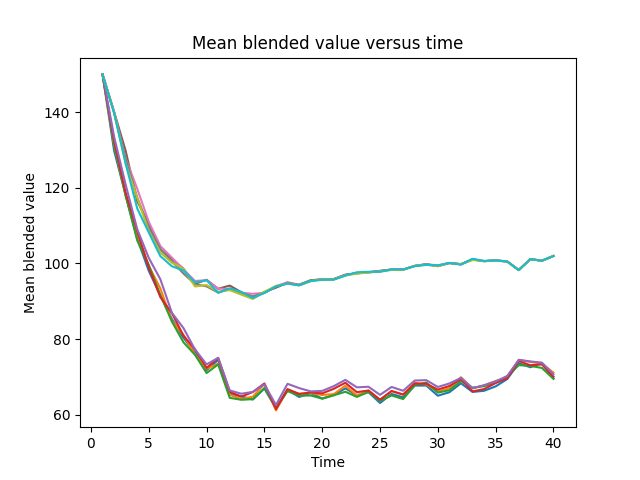
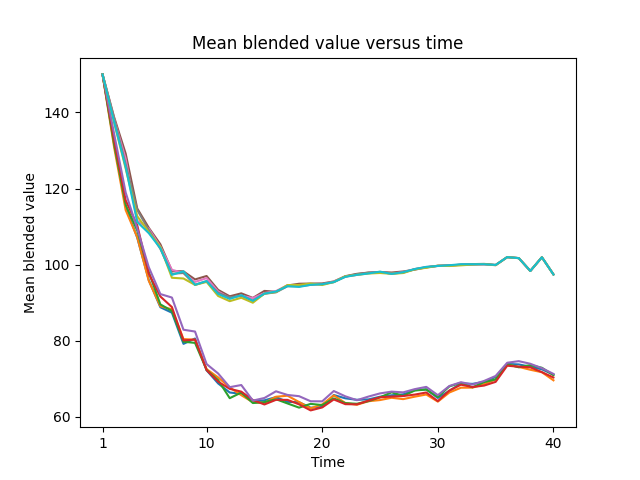
add df_plot

diff --git a/pyibl.py b/pyibl.py
@@ -9,7 +9,7 @@ facilities for inspecting details of the IBL decision making process programmati
 facilitating debugging, logging and fine grained control of complex models.
 """
 
-__version__ = "5.2.1dev1"
+__version__ = "5.2.1"
 
 PYACTUP_MINIMUM_VERSION = "2.2.3"
 
@@ -1273,141 +1273,12 @@ class Agent:
         .. image:: _static/bv_plot.png
 
         """
-        if min and not isinstance(min, numbers.Real):
-            raise ValueError(f"The min value, {min}, is neither a Real number nor None")
-        if max and not isinstance(max, numbers.Real):
-            raise ValueError(f"The max value, {max}, is neither a Real number nor None")
-        if show is None:
-            show = filename is None
         if self._aggregate_details is None:
             raise RuntimeError("Can't make plot unless aggregate_details is set")
-        if details is None:
-            agg = self.aggregate_details
-        else:
-            if not (isnstance(details, pd.DataFrame) and
-                    list(details.columns) == list(self._aggregate_details_columns())):
-                raise ValueError("The details argument is not a DataFrame with the same columns as this Agent's aggregate_details")
-            agg = details
-        plot_kind = {"choice":      ChoicePlot("choice", "Fraction making choice", True),
-                     "bv":          OptionPlot("blended_value", "Mean blended value"),
-                     "probability": RetrievalProbabilyPlot("retrieval_probability",
-                                                           "Mean probability of retrieval", True),
-                     "activation":  InstancePlot("activation", "Mean total activation"),
-                     "baselevel":   InstancePlot("base_level_activation", "Mean base level activation"),
-                     "mismatch":    InstancePlot("mismatch", "Mean total mismatch penalty")
-                     }.get(kind)
-        if not plot_kind:
-            if isinstance(kind, str) and kind.endswith(".similarity"):
-                if kind in agg:
-                    plot_kind = InstancePlot(kind, f"Mean similarities of {kind[0:-11]}",  True)
-                else:
-                    raise ValueError(f"The {kind[0:-11]} attribute is either absent or not partially matched")
-            else:
-                raise ValueError(f"Unknown plot kind {kind}")
-        if kind == "mismatch" and "mismatch" not in agg:
-            raise ValueError("Can't generate a mismatch plot when no attributes were partially matched")
-        if xlabel is None:
-            xlabel = "Time"
-        if ylabel is None:
-            ylabel = plot_kind._description
-        data = plot_kind.get_data(agg, include, exclude, min, max, earliest, latest)
-        colors_and_styles = Agent._plot_ordering(agg, data)
-        plt.clf()
-        mint = None
-        maxt = None
-        for k in (colors_and_styles or data.keys()):
-            t, v = data[k]
-        # for k, (t, v) in data.items():
-            if mint is None or t[0] < mint:
-                mint = t[0]
-            if maxt is None or t[-1] > maxt:
-                maxt = t[-1]
-            if colors_and_styles:
-                c, s = colors_and_styles[k]
-                plt.plot(t, v, label=str(k), color=c, ls=s)
-            else:
-                plt.plot(t, v, label=str(k))
-        if mint is not None and maxt is not None:
-            t = list(range(mint, maxt + 1))
-        if title is not False:
-            plt.title(title or f"{plot_kind._description} versus {xlabel.lower()}")
-        if legend is None:
-            legend = data and (len(data) <= LEGEND_LIMIT)
-        if legend is True:
-            plt.legend()
-        elif legend:
-            plt.legend(legend)
-        plt.xlabel(xlabel)
-        if mint is not None and maxt is not None:
-            plt.xticks(Agent._xticks(t))
-        plt.ylabel(ylabel)
-        plt.yticks(plot_kind.yticks())
-        if limits:
-            plt.ylim(limits)
-        elif plot_kind._default_ylim:
-            plt.ylim(plot_kind._default_ylim)
-        if filename:
-            plt.savefig(filename)
-        if show:
-            plt.show()
-        return plt.gcf()
-
-    @staticmethod
-    def _plot_ordering(df, data):
-        options = sorted(df["option"].unique())
-        if len(options) > len(PLOT_COLORS):
-            return None
-        utilities = sorted([n for n in df["utility"].unique()], reverse=True)
-        if all(math.isclose(u, round(u)) for u in utilities):
-            utilities = [int(u) for u in utilities]
-        result = {}
-        for o, c in zip(options, PLOT_COLORS):
-            if o in data:
-                result[o] = (c, PLOT_LINE_STYLES[0])
-            else:
-                line_styles = list(PLOT_LINE_STYLES)
-                for u in utilities:
-                    if (s := f"{o}, {u}") in data:
-                        if not line_styles:
-                            return None
-                        result[s] = (c, line_styles.pop(0))
-        return result
-
-    @staticmethod
-    def _xticks(times):
-        def f(x):
-            t0 = times[0]
-            result = [t0]
-            tx = math.ceil(t0 / x) * x
-            if tx - t0 < 7:
-                tx += x
-            tend = times[-1]
-            result += list(range(tx, tend + 1, x))
-            if tend - result[-1] >= 7:
-                result += [tend]
-            else:
-                result[-1] = tend
-            return result
-        try:
-            if (n := len(times)) <= 6:
-                return times
-            elif n <= 15:
-                return [times[i] for i in range(0, n, 2)]
-            elif n <= 80:
-                return f(10)
-            elif n < 160:
-                return f(20)
-            elif n <= 240:
-                return f(30)
-            elif n <= 310:
-                return f(40)
-            elif n <= 400:
-                return f(50)
-            else:
-                return None
-        except Error:
-            # shouldn't be possible, but just in case...
-            return None
+        return df_plot(self.aggregate_details, kind=kind, title=title,
+                       xlabel=xlabel, ylabel=ylabel, include=include, exclude=exclude,
+                       min=min, max=max, earliest=earliest, latest=latest,
+                       legend=legend, limits=limits, filename=filename, show=show)
 
     def similarity(self, attributes=None, function=None, weight=None):
         """Assigns a function and/or corresponding weight to be used when computing the similarity of attribute values.
@@ -1481,6 +1352,157 @@ class Agent:
             self._memory.index = self._preferred_index()
         except RuntimeError:
             pass
+
+
+def df_plot(df, kind, title=None, xlabel=None, ylabel=None,
+            include=None, exclude=None, min=None, max=None, earliest=None, latest=None,
+            legend=None, limits=None, filename=None, show=None):
+    """This is similar to the :meth:`Agent.plot` method.
+    The first argument should be a Pandas DataFrame, congruent to one such as might be
+    produced by :attr:`Agent.aggrregate_details`. The plots produced are the same as would
+    have been produced by an :class:`Agent` with those aggregate details, with the rest of
+    the arguments being the same as for :meth:`Agent.plot`.
+
+    This function can sometimes be useful in specialized circumstances, such as
+    combining the results from multiple simulations using isomorphic Agents.
+
+    A :exc:`ValueError` is raised if *df* is not a DataFrame, or its columns are
+    such as might be in one produced by :attr:`Agent.aggrregate_details`. A variety
+    of other errors may be raised if values in *df* are not of the types or ranges
+    that might be expected in an :class:`Agent`'s results.
+    """
+    if not isinstance(df, pd.DataFrame):
+        raise ValueError(f"First argument to df_plot must be a DataFrame, not {df}")
+    for c in df.columns:
+        if not (c in AGGREGATE_COLUMNS + ("mismatch",) or c.endswith(".similarity")):
+            raise ValueError(f"DataFrame column {c} cannot be plotted")
+    for c in AGGREGATE_COLUMNS:
+        if c not in df.columns:
+            raise ValueError(f"The DataFrame does not contain columns {c} and cannot be plotted")
+    if min and not isinstance(min, numbers.Real):
+        raise ValueError(f"The min value, {min}, is neither a Real number nor None")
+    if max and not isinstance(max, numbers.Real):
+        raise ValueError(f"The max value, {max}, is neither a Real number nor None")
+    if show is None:
+        show = filename is None
+    plot_kind = {"choice":      ChoicePlot("choice", "Fraction making choice", True),
+                 "bv":          OptionPlot("blended_value", "Mean blended value"),
+                 "probability": RetrievalProbabilyPlot("retrieval_probability",
+                                                       "Mean probability of retrieval", True),
+                 "activation":  InstancePlot("activation", "Mean total activation"),
+                 "baselevel":   InstancePlot("base_level_activation", "Mean base level activation"),
+                 "mismatch":    InstancePlot("mismatch", "Mean total mismatch penalty")
+                 }.get(kind)
+    if not plot_kind:
+        if isinstance(kind, str) and kind.endswith(".similarity"):
+            if kind in df:
+                plot_kind = InstancePlot(kind, f"Mean similarities of {kind[0:-11]}",  True)
+            else:
+                raise ValueError(f"The {kind[0:-11]} attribute is either absent or not partially matched")
+        else:
+            raise ValueError(f"Unknown plot kind {kind}")
+    if kind == "mismatch" and "mismatch" not in df:
+        raise ValueError("Can't generate a mismatch plot when no attributes were partially matched")
+    if xlabel is None:
+        xlabel = "Time"
+    if ylabel is None:
+        ylabel = plot_kind._description
+    data = plot_kind.get_data(df, include, exclude, min, max, earliest, latest)
+    colors_and_styles = _plot_ordering(df, data)
+    plt.clf()
+    mint = None
+    maxt = None
+    for k in (colors_and_styles or data.keys()):
+        t, v = data[k]
+        if mint is None or t[0] < mint:
+            mint = t[0]
+        if maxt is None or t[-1] > maxt:
+            maxt = t[-1]
+        if colors_and_styles:
+            c, s = colors_and_styles[k]
+            plt.plot(t, v, label=str(k), color=c, ls=s)
+        else:
+            plt.plot(t, v, label=str(k))
+    if mint is not None and maxt is not None:
+        t = list(range(mint, maxt + 1))
+    if title is not False:
+        plt.title(title or f"{plot_kind._description} versus {xlabel.lower()}")
+    if legend is None:
+        legend = data and (len(data) <= LEGEND_LIMIT)
+    if legend is True:
+        plt.legend()
+    elif legend:
+        plt.legend(legend)
+    plt.xlabel(xlabel)
+    if mint is not None and maxt is not None:
+        plt.xticks(_xticks(t))
+    plt.ylabel(ylabel)
+    plt.yticks(plot_kind.yticks())
+    if limits:
+        plt.ylim(limits)
+    elif plot_kind._default_ylim:
+        plt.ylim(plot_kind._default_ylim)
+    if filename:
+        plt.savefig(filename)
+    if show:
+        plt.show()
+    return plt.gcf()
+
+def _plot_ordering(df, data):
+    options = sorted(df["option"].unique())
+    if len(options) > len(PLOT_COLORS):
+        return None
+    utilities = sorted([n for n in df["utility"].unique()], reverse=True)
+    if all(math.isclose(u, round(u)) for u in utilities):
+        utilities = [int(u) for u in utilities]
+    result = {}
+    for o, c in zip(options, PLOT_COLORS):
+        if o in data:
+            result[o] = (c, PLOT_LINE_STYLES[0])
+        else:
+            line_styles = list(PLOT_LINE_STYLES)
+            for u in utilities:
+                if (s := f"{o}, {u}") in data:
+                    if not line_styles:
+                        return None
+                    result[s] = (c, line_styles.pop(0))
+    return result
+
+def _xticks(times):
+    def f(x):
+        t0 = times[0]
+        result = [t0]
+        tx = math.ceil(t0 / x) * x
+        if tx - t0 < 7:
+            tx += x
+        tend = times[-1]
+        result += list(range(tx, tend + 1, x))
+        if tend - result[-1] >= 7:
+            result += [tend]
+        else:
+            result[-1] = tend
+        return result
+    try:
+        if (n := len(times)) <= 6:
+            return times
+        elif n <= 15:
+            return [times[i] for i in range(0, n, 2)]
+        elif n <= 80:
+            return f(10)
+        elif n < 160:
+            return f(20)
+        elif n <= 240:
+            return f(30)
+        elif n <= 310:
+            return f(40)
+        elif n <= 400:
+            return f(50)
+        else:
+            return None
+    except Error:
+        # shouldn't be possible, but just in case...
+        return None
+
 
 
 class Plot():

diff --git a/doc/reference.rst b/doc/reference.rst
@@ -74,3 +74,4 @@ Reference
 
 .. autofunction:: bounded_quadratic_similarity
 
+.. autofunction:: df_plot
